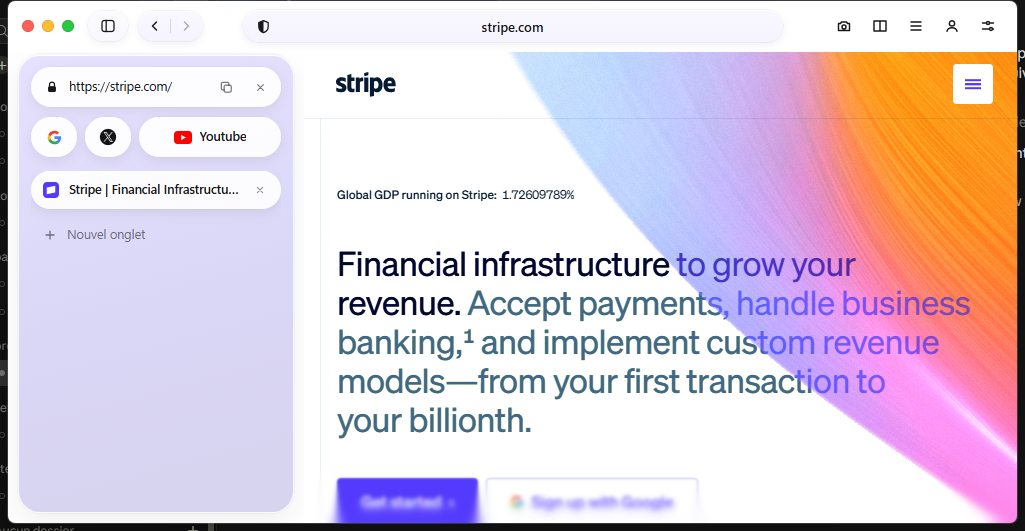
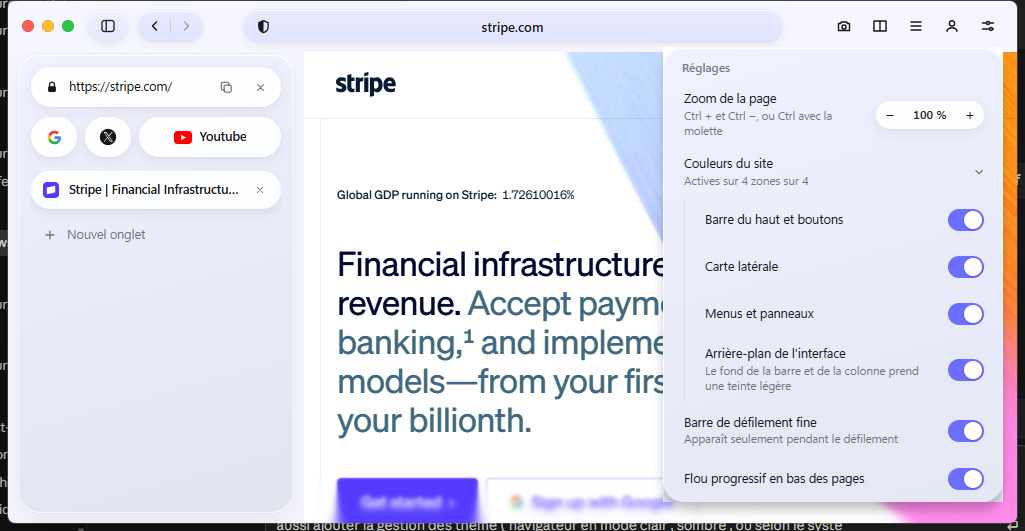
feat: site colour on the top bar, buttons, menus and chrome background, softened to a pastel; per-zone switches in a settings sub-menu; tall panels scroll

diff --git a/ui/src/theme.css b/ui/src/theme.css
@@ -15,8 +15,16 @@
 
   /* Teinte des surfaces : le fond de la page, coloré par l'accent du site (bleu d'un réseau social, rouge
      d'un site vidéo…). Sans accent, c'est simplement le fond de la page. */
+  /* La couleur brute du site (--site-accent, posée par bridge.ts) est adoucie avant usage : une teinte pastel,
+     claire, jamais vive. Sans couleur de site, ces variables n'existent pas et chaque surface garde son repli. */
+  --page-accent: color-mix(in oklab, var(--site-accent) 52%, #ffffff);
+  --chrome-accent: color-mix(in oklab, var(--site-chrome-accent) 52%, #ffffff);
+
   --tint: color-mix(in srgb, var(--page-bg) 78%, var(--page-accent, var(--page-bg)) 22%);
-  --tint-soft: color-mix(in srgb, var(--page-bg) 88%, var(--page-accent, var(--page-bg)) 12%);
+  --tint-pill: color-mix(in srgb, var(--page-bg) 62%, var(--page-accent, var(--page-bg)) 38%);
+
+  /* Arrière-plan de l'interface (barre du haut, colonne de la carte) : le fond de la page, légèrement teinté. */
+  --chrome-bg: color-mix(in srgb, var(--page-bg) 90%, var(--chrome-accent, var(--page-bg)) 10%);
 
   /* Surface de la carte latérale : fusionne la teinte de la page avec un voile givré */
   --bg-sidebar-card: linear-gradient(
@@ -36,13 +44,13 @@
   /* Capsules translucides de la barre supérieure */
   --bg-glass-pill: linear-gradient(
     180deg,
-    color-mix(in srgb, var(--tint-soft) 28%, rgba(255, 255, 255, 0.88)) 0%,
-    color-mix(in srgb, var(--tint-soft) 48%, rgba(255, 255, 255, 0.68)) 100%
+    color-mix(in srgb, var(--tint-pill) 62%, rgba(255, 255, 255, 0.88)) 0%,
+    color-mix(in srgb, var(--tint-pill) 78%, rgba(255, 255, 255, 0.68)) 100%
   );
   --bg-glass-pill-hover: linear-gradient(
     180deg,
-    color-mix(in srgb, var(--tint-soft) 16%, rgba(255, 255, 255, 0.96)) 0%,
-    color-mix(in srgb, var(--tint-soft) 32%, rgba(255, 255, 255, 0.82)) 100%
+    color-mix(in srgb, var(--tint-pill) 46%, rgba(255, 255, 255, 0.96)) 0%,
+    color-mix(in srgb, var(--tint-pill) 62%, rgba(255, 255, 255, 0.82)) 100%
   );
 
   /* Pilules flottantes surélevées (URL sidebar, favoris G/X/Youtube, onglet actif) */
@@ -54,7 +62,8 @@
   --text-dim: rgba(24, 24, 27, 0.58);
   --border: rgba(0, 0, 0, 0.07);
   --border-strong: rgba(0, 0, 0, 0.12);
-  --accent: var(--page-accent, #0a84ff);
+  /* Interrupteurs et barres de progression : la couleur du site, un peu éclaircie mais encore lisible. */
+  --accent: color-mix(in oklab, var(--site-accent, #0a84ff) 80%, #ffffff);
 
   --shadow-glass-pill:
     inset 0 1px 0 rgba(255, 255, 255, 0.92),
@@ -94,13 +103,13 @@
 
   --bg-glass-pill: linear-gradient(
     180deg,
-    rgba(255, 255, 255, 0.14) 0%,
-    rgba(255, 255, 255, 0.08) 100%
+    color-mix(in srgb, var(--page-accent, #ffffff) 26%, rgba(255, 255, 255, 0.05)) 0%,
+    color-mix(in srgb, var(--page-accent, #ffffff) 16%, rgba(255, 255, 255, 0.03)) 100%
   );
   --bg-glass-pill-hover: linear-gradient(
     180deg,
-    rgba(255, 255, 255, 0.2) 0%,
-    rgba(255, 255, 255, 0.12) 100%
+    color-mix(in srgb, var(--page-accent, #ffffff) 34%, rgba(255, 255, 255, 0.08)) 0%,
+    color-mix(in srgb, var(--page-accent, #ffffff) 22%, rgba(255, 255, 255, 0.05)) 100%
   );
 
   --bg-pill-solid: rgba(255, 255, 255, 0.13);
@@ -111,7 +120,11 @@
   --text-dim: rgba(244, 244, 246, 0.6);
   --border: rgba(255, 255, 255, 0.09);
   --border-strong: rgba(255, 255, 255, 0.16);
-  --accent: var(--page-accent, #409cff);
+  --accent: color-mix(in oklab, var(--site-accent, #409cff) 82%, #ffffff);
+
+  /* En sombre, la couleur du site est adoucie vers un gris moyen plutôt que vers le blanc. */
+  --page-accent: color-mix(in oklab, var(--site-accent) 55%, #6b6b76);
+  --chrome-accent: color-mix(in oklab, var(--site-chrome-accent) 55%, #6b6b76);
 
   --shadow-glass-pill:
     inset 0 1px 0 rgba(255, 255, 255, 0.18),

diff --git a/ui/src/Popup.tsx b/ui/src/Popup.tsx
@@ -9,7 +9,7 @@ type Content =
   | { popup: 'library'; bookmarks: Item[]; history: Item[] }
   | { popup: 'menu'; items: string[] }
   | { popup: 'downloads'; items: Download[] }
-  | { popup: 'settings'; zoom: number; items: Setting[] }
+  | { popup: 'settings'; zoom: number; tint: Setting[]; items: Setting[] }
   | { popup: 'profiles'; items: Profile[] }
   | { popup: 'profile-new' };
 
@@ -162,6 +162,7 @@ export default function Popup() {
             <button aria-label="Agrandir" onClick={() => send({ type: 'zoom.in' })}>+</button>
           </span>
         </div>
+        <TintSettings items={content.tint} />
         <div className="popup-list">
           {content.items.map(s => (
             <button
@@ -240,6 +241,38 @@ export default function Popup() {
         )}
       </div>
     </div>
+  );
+}
+
+// Sous-menu des réglages : où la couleur du site visité teinte l'interface.
+function TintSettings({ items }: { items: Setting[] }) {
+  const [open, setOpen] = useState(false);
+  const active = items.filter(s => s.on).length;
+  return (
+    <>
+      <button className="setting-row" aria-expanded={open} onClick={() => setOpen(o => !o)}>
+        <span className="setting-text">
+          <span className="row-title">Couleurs du site</span>
+          <span className="row-sub">{active === 0 ? "Désactivées : l'interface reste neutre" : `Actives sur ${active} zone${active > 1 ? 's' : ''} sur ${items.length}`}</span>
+        </span>
+        <span className={`chevron${open ? ' open' : ''}`} aria-hidden>
+          <Icon d="M6 4l4 4-4 4" size={13} />
+        </span>
+      </button>
+      {open && (
+        <div className="setting-sub">
+          {items.map(s => (
+            <button key={s.key} className="setting-row" role="switch" aria-checked={s.on} onClick={() => send({ type: 'settings.set', id: s.key, index: s.on ? 0 : 1 })}>
+              <span className="setting-text">
+                <span className="row-title">{s.label}</span>
+                {s.hint && <span className="row-sub">{s.hint}</span>}
+              </span>
+              <span className={`switch${s.on ? ' on' : ''}`} aria-hidden />
+            </button>
+          ))}
+        </div>
+      )}
+    </>
   );
 }
 

diff --git a/ui/src/bridge.ts b/ui/src/bridge.ts
@@ -57,6 +57,7 @@ export type HostEvent = {
   bg?: string;
   dark?: boolean;
   accent?: string | null;
+  tint?: { topbar: boolean; sidebar: boolean; menus: boolean; background: boolean };
 };
 
 export function onMessage(callback: (data: unknown) => void) {
@@ -65,9 +66,16 @@ export function onMessage(callback: (data: unknown) => void) {
     if (ev && ev.event === 'theme' && ev.bg) {
       document.documentElement.style.setProperty('--page-bg', ev.bg);
       document.documentElement.dataset.theme = ev.dark ? 'dark' : 'light';
-      // Couleur d'accent du site : teinte les surfaces de l'interface. Absente, elles gardent la couleur du fond.
-      if (ev.accent) document.documentElement.style.setProperty('--page-accent', ev.accent);
-      else document.documentElement.style.removeProperty('--page-accent');
+      // Couleur d'accent du site. Chaque vue ne la prend que si les réglages l'autorisent pour sa zone ;
+      // sans elle, ses surfaces gardent la couleur du fond.
+      const zone = location.hash === '#sidebar' ? 'sidebar' : location.hash ? 'menus' : 'topbar';
+      const root = document.documentElement.style;
+      if (ev.accent && (ev.tint?.[zone] ?? true)) root.setProperty('--site-accent', ev.accent);
+      else root.removeProperty('--site-accent');
+      // Arrière-plan : le fond de la barre et de la colonne se teinte légèrement (pas celui des menus, qui
+      // doit rester celui de la page pour que leurs coins s'y fondent).
+      if (ev.accent && zone !== 'menus' && (ev.tint?.background ?? true)) root.setProperty('--site-chrome-accent', ev.accent);
+      else root.removeProperty('--site-chrome-accent');
       return;
     }
     callback(e.data);

diff --git a/ui/src/popup.css b/ui/src/popup.css
@@ -3,7 +3,9 @@
    Ses quatre coins, hors de la carte arrondie, prennent donc la couleur de la page pour se fondre dedans. */
 .popup-body {
   background: var(--page-bg);
-  overflow: hidden;
+  /* Un panneau plus haut que la place disponible défile, sans barre visible. */
+  overflow: hidden auto;
+  scrollbar-width: none;
 }
 
 .popup {
@@ -365,3 +367,8 @@
 .name-form-actions { display: flex; justify-content: flex-end; gap: 6px; }
 .name-form-actions .pill-action { height: 30px; padding: 0 14px; }
 .pill-action:disabled { opacity: 0.45; }
+
+/* Sous-menu des réglages */
+.chevron { flex: none; color: var(--text-dim); transition: transform var(--fast) var(--ease-out); }
+.chevron.open { transform: rotate(90deg); }
+.setting-sub { margin: 0 0 4px 12px; padding-left: 8px; border-left: 1px solid var(--border); display: flex; flex-direction: column; gap: 3px; }

diff --git a/ui/src/sidebar.css b/ui/src/sidebar.css
@@ -1,6 +1,6 @@
 /* Carte latérale flottante (#sidebar) : aucun cadre externe, tout flotte sur --page-bg. */
 .sidebar-body {
-  background-color: var(--page-bg);
+  background-color: var(--chrome-bg);
   transition: background-color 220ms var(--ease-out);
 }
 
@@ -193,3 +193,4 @@
 
 /* Carte flottante au-dessus de la page : la vue a exactement sa taille, la page reste visible tout autour. */
 .sidebar-body.floating .sidebar-card { margin: 0; height: 100%; }
+.sidebar-body.floating { background-color: var(--page-bg); }

diff --git a/ui/src/app.css b/ui/src/app.css
@@ -5,7 +5,7 @@ body {
   font: var(--font-size) / 1.25 var(--font);
   letter-spacing: -0.008em;
   color: var(--text);
-  background-color: var(--page-bg);
+  background-color: var(--chrome-bg);
   transition: background-color 220ms var(--ease-out), color 180ms var(--ease-out);
   overflow: hidden;
   user-select: none;

diff --git a/src/Browser.App/UiBridge.cs b/src/Browser.App/UiBridge.cs
@@ -86,6 +86,25 @@ public sealed class UiBridge(WebView2 view, string page = "index.html", WebView2
         """;
 
     private static string? s_lastThemeMsg;
+    private static (string Bg, bool Dark, string? Accent)? s_lastProbe;
+
+    /// <summary>Réglages lus pour savoir où la couleur du site doit teinter l'interface.</summary>
+    public static Settings? Settings { get; set; }
+
+    /// <summary>Envoie les couleurs de la page active à toutes les vues d'interface, avec les réglages de teinte.</summary>
+    public void BroadcastTheme()
+    {
+        if (s_lastProbe is not var (bg, dark, accent)) return;
+        var on = Settings;
+        s_lastThemeMsg = JsonSerializer.Serialize(new
+        {
+            @event = "theme", bg, dark, accent,
+            tint = new { topbar = on?.TintTopbar ?? true, sidebar = on?.TintSidebar ?? true, menus = on?.TintMenus ?? true, background = on?.TintBackground ?? true },
+        });
+        view.CoreWebView2?.PostWebMessageAsJson(s_lastThemeMsg);
+        sidebar?.CoreWebView2?.PostWebMessageAsJson(s_lastThemeMsg);
+        foreach (var floating in _floating) floating.Post(s_lastThemeMsg);
+    }
     private string? _activeId;
     private readonly List<UiBridge> _floating = new(); // vues flottantes qui suivent la couleur de la page : menus, encart
 
@@ -194,10 +213,8 @@ public sealed class UiBridge(WebView2 view, string page = "index.html", WebView2
             if (System.Text.RegularExpressions.Regex.Match(bg, @"rgb\((\d+), (\d+), (\d+)\)") is { Success: true } m)
                 PageColorChanged?.Invoke(byte.Parse(m.Groups[1].Value), byte.Parse(m.Groups[2].Value), byte.Parse(m.Groups[3].Value));
             var accent = doc.RootElement.TryGetProperty("accent", out var accentValue) && accentValue.ValueKind == JsonValueKind.String ? accentValue.GetString() : null;
-            s_lastThemeMsg = JsonSerializer.Serialize(new { @event = "theme", bg, dark, accent });
-            view.CoreWebView2?.PostWebMessageAsJson(s_lastThemeMsg);
-            sidebar?.CoreWebView2?.PostWebMessageAsJson(s_lastThemeMsg);
-            foreach (var floating in _floating) floating.Post(s_lastThemeMsg);
+            s_lastProbe = (bg, dark, accent);
+            BroadcastTheme();
         }
         catch (Exception) { }
     }

diff --git a/src/Browser.App/BrowserController.cs b/src/Browser.App/BrowserController.cs
@@ -220,6 +220,14 @@ public sealed class BrowserController
     {
         popup = "settings",
         zoom = _tabs.ActiveId is { } activeId ? (int)Math.Round(_pages.ZoomOf(activeId) * 100) : 100,
+        // Sous-menu : où la couleur du site teinte l'interface.
+        tint = new[]
+        {
+            new { key = "tint.topbar", label = "Barre du haut et boutons", hint = "", on = _settings.TintTopbar },
+            new { key = "tint.sidebar", label = "Carte latérale", hint = "", on = _settings.TintSidebar },
+            new { key = "tint.menus", label = "Menus et panneaux", hint = "", on = _settings.TintMenus },
+            new { key = "tint.background", label = "Arrière-plan de l'interface", hint = "Le fond de la barre et de la colonne prend une teinte légère", on = _settings.TintBackground },
+        },
         items = new[]
         {
             new { key = "scrollbars", label = "Barre de défilement fine", hint = "Apparaît seulement pendant le défilement", on = !_settings.HideScrollbars },
@@ -248,10 +256,15 @@ public sealed class BrowserController
             case "floatingDownloads": _settings.FloatingDownloads = on; break;
             case "onlineSuggestions": _settings.OnlineSuggestions = on; break;
             case "passwords": _settings.SavePasswords = on; break;
+            case "tint.topbar": _settings.TintTopbar = on; break;
+            case "tint.sidebar": _settings.TintSidebar = on; break;
+            case "tint.menus": _settings.TintMenus = on; break;
+            case "tint.background": _settings.TintBackground = on; break;
             default: return;
         }
         JsonFileStore.Save(AppPaths.Settings, _settings);
         _pages.ApplySettings();
+        _bridge.BroadcastTheme();
         UpdateDock();
         Refresh();
         if (_settingsOpen) _popup.Post(SettingsJson());

diff --git a/src/Browser.Core/JsonFileStore.cs b/src/Browser.Core/JsonFileStore.cs
@@ -10,6 +10,11 @@ public sealed class Settings
     public bool HideScrollbars { get; set; } = true;
     /// <summary>Affiche les téléchargements en cours dans un encart en bas à droite. Désactivé : seulement le panneau de la barre.</summary>
     public bool FloatingDownloads { get; set; } = true;
+    /// <summary>Où la couleur du site visité teinte l'interface. Tout coupé : l'interface reste neutre.</summary>
+    public bool TintTopbar { get; set; } = true;
+    public bool TintSidebar { get; set; } = true;
+    public bool TintMenus { get; set; } = true;
+    public bool TintBackground { get; set; } = true;
     /// <summary>Propose d'enregistrer les mots de passe et les remplit ; le stockage chiffré est celui du moteur.</summary>
     public bool SavePasswords { get; set; } = true;
     /// <summary>Envoie la saisie de la barre d'adresse au moteur de recherche pour obtenir des complétions.</summary>

diff --git a/src/Browser.App/PopupHost.cs b/src/Browser.App/PopupHost.cs
@@ -37,10 +37,12 @@ public sealed class PopupHost(Grid frame, WebView2 view, UiBridge bridge)
     public void SetHeight(double height)
     {
         if (!_pending && frame.Visibility == Visibility.Collapsed) return;
-        frame.Height = Math.Clamp(height, 1, 520);
+
 
         // La vue reste entière dans la fenêtre : elle se décale si elle dépasserait à droite ou en bas.
         var window = (FrameworkElement)frame.Parent;
+        // Jamais plus haut que la fenêtre : au-delà, le contenu du panneau défile.
+        frame.Height = Math.Clamp(height, 1, Math.Max(160, window.ActualHeight - 2 * Edge - 48));
         var x = Math.Max(Edge, Math.Min(_x, window.ActualWidth - frame.Width - Edge));
         var y = Math.Max(Edge, Math.Min(_y, window.ActualHeight - frame.Height - Edge));
         frame.Margin = new Thickness(x, y, 0, 0);

diff --git a/src/Browser.App/MainWindow.xaml.cs b/src/Browser.App/MainWindow.xaml.cs
@@ -74,6 +74,7 @@ public sealed partial class MainWindow : Window
         var settings = JsonFileStore.Load<Settings>(AppPaths.Settings);
         var blur = File.ReadAllText(Path.Combine(AppContext.BaseDirectory, "inject", "blur.js"));
 
+        UiBridge.Settings = settings;
         var pages = new PageHost(Pages, PrimaryColumn, DividerColumn, SecondaryColumn, blur, settings);
         var bridge = new UiBridge(Ui, "index.html", Sidebar, SidebarColumn, pages);
         _bridge = bridge;
